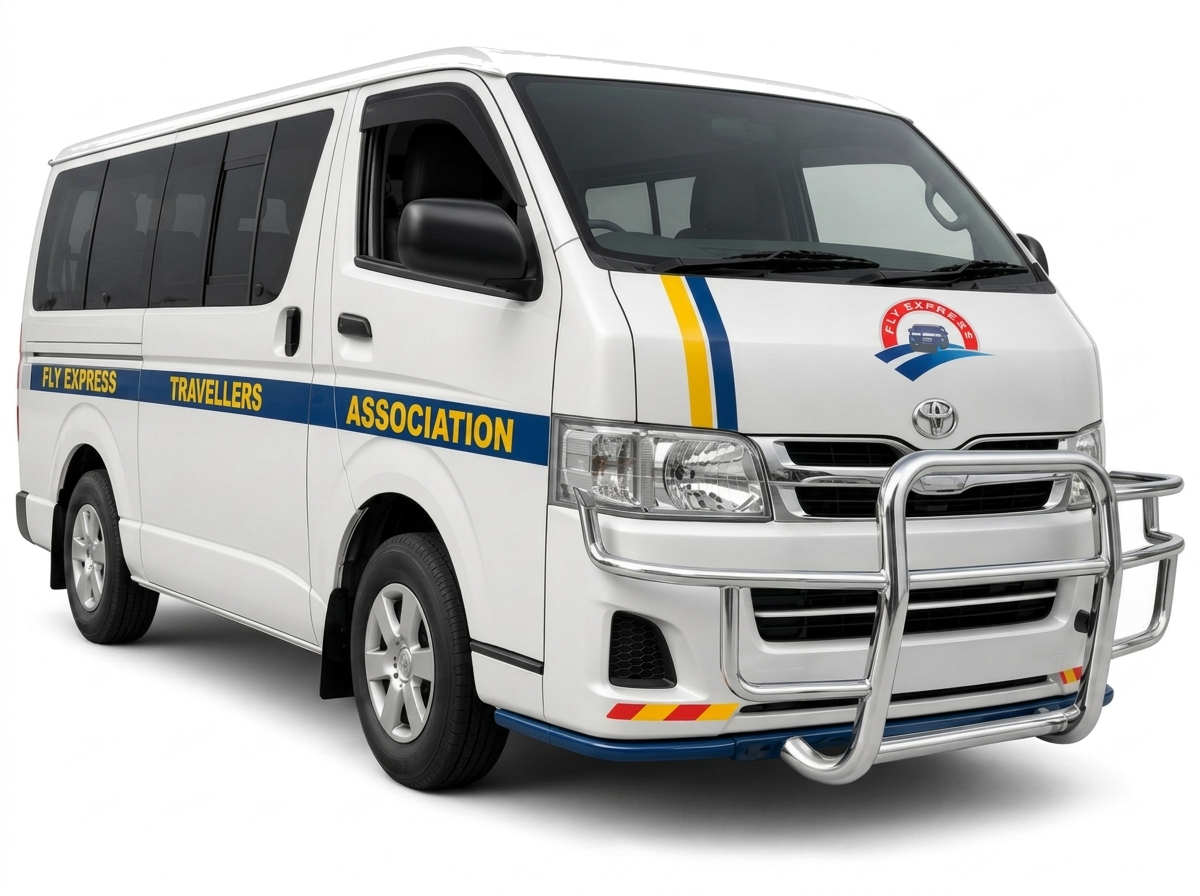
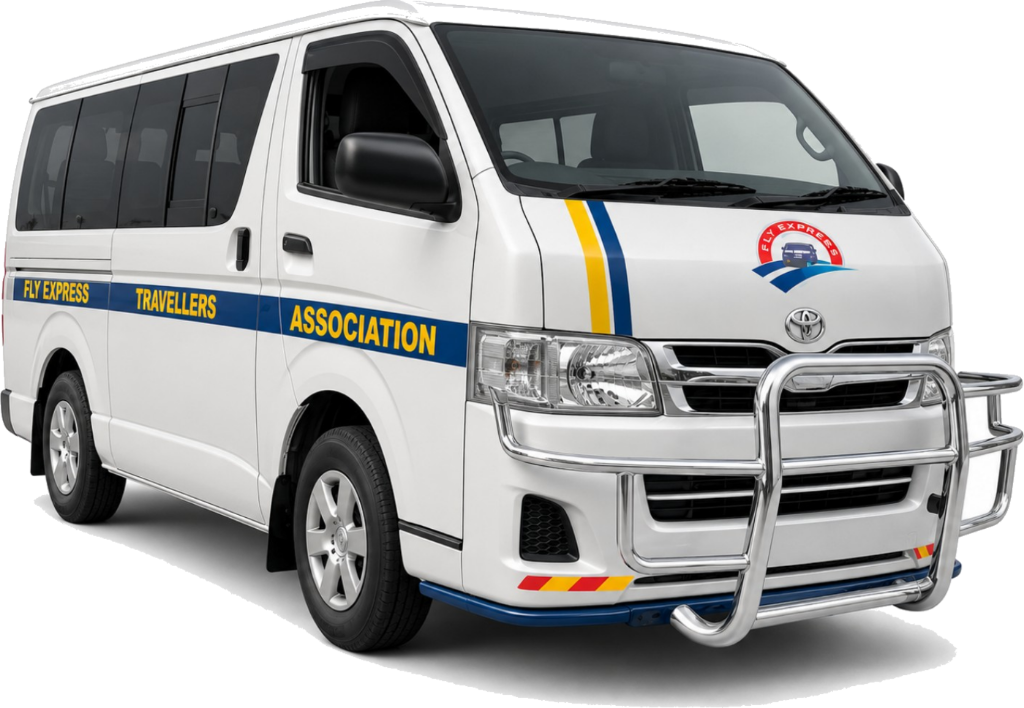
Differentiate booking images between Drone standard roof and Highroof van models dynamically using getTripVehicleImage

diff --git a/script.js b/script.js
@@ -1048,7 +1048,7 @@ function renderBook() {
                     <span class="taxi-van-type-label">${trip.vehicle} (${capacity} seats)</span>
                     <div class="taxi-van-img-wrapper">
                       <div class="taxi-van-img-box">
-                        <img src="${state.transparentVehicles['assets/fly-express-van.png'] || 'assets/fly-express-van.png'}" alt="Fly Express Van" class="${!hasEnoughSeats ? 'is-grayscale' : ''}">
+                        <img src="${getTripVehicleImage(trip.vehicle)}" alt="Fly Express Van" class="${!hasEnoughSeats ? 'is-grayscale' : ''}">
                       </div>
                       <!-- Ugandan Plate -->
                       <div class="ug-plate-badge">
@@ -1347,7 +1347,7 @@ function renderTripResult(trip) {
         <span class="taxi-van-type-label">${trip.vehicle} (${capacity} seats)</span>
         <div class="taxi-van-img-wrapper">
           <div class="taxi-van-img-box">
-            <img src="${state.transparentVehicles['assets/fly-express-van.png'] || 'assets/fly-express-van.png'}" alt="Fly Express Van" class="${!hasEnoughSeats ? 'is-grayscale' : ''}">
+            <img src="${getTripVehicleImage(trip.vehicle)}" alt="Fly Express Van" class="${!hasEnoughSeats ? 'is-grayscale' : ''}">
           </div>
           <!-- Ugandan Plate -->
           <div class="ug-plate-badge">
@@ -1435,7 +1435,7 @@ function renderTripDetails() {
     <div class="smart-review__map-card">
       <div class="smart-review__map-copy"><p class="eyebrow">${reviewDate}</p><h1 id="review-title">Review your trip</h1><p>You’re almost ready to travel.</p></div>
       <div id="trip-review-map" class="trip-review-map" aria-label="OpenStreetMap preview from ${trip.boarding} to ${trip.destination}"></div>
-      <div id="trip-map-fallback" class="trip-map-fallback" hidden><img src="${state.transparentVehicles['assets/fly-express-van.png'] || 'assets/fly-express-van.png'}" alt=""><strong>Map preview unavailable</strong><span>Your selected route is still ready.</span></div>
+      <div id="trip-map-fallback" class="trip-map-fallback" hidden><img src="${getTripVehicleImage(trip.vehicle)}" alt=""><strong>Map preview unavailable</strong><span>Your selected route is still ready.</span></div>
     </div>
     <div class="smart-review__sheet">
       <div class="sheet-handle" aria-hidden="true"></div>
@@ -1457,7 +1457,7 @@ function renderTripDetails() {
       <article class="card transit-status-card">
         <div class="transit-info-grid">
           <div class="transit-van-visual">
-            <img src="${state.transparentVehicles['assets/fly-express-van.png'] || 'assets/fly-express-van.png'}" alt="Fly Express Van" class="transit-van-img">
+            <img src="${getTripVehicleImage(trip.vehicle)}" alt="Fly Express Van" class="transit-van-img">
             <span class="van-plate-tag">${trip.plate}</span>
           </div>
           <div class="transit-details">
@@ -1788,7 +1788,7 @@ function renderLiveTrip() {
       </div>
       <aside class="grid">
         <article class="card card--blue"><p class="section-kicker">Estimated arrival</p><div class="wallet-balance">${trip.arrive}</div><p class="muted">${trip.traffic} traffic · ${trip.duration} scheduled journey</p><span class="status-chip" style="background:rgba(255,255,255,.13);color:white">Vehicle moving</span></article>
-        <article class="card"><div class="card-head"><h3>Trip and crew</h3><span class="status-chip status-chip--success">Verified</span></div><div class="vehicle-identity-media"><div class="taxi-van-img-box" style="width:116px;height:76px;border:none !important;"><img src="${state.transparentVehicles['assets/fly-express-van.png'] || 'assets/fly-express-van.png'}" alt="Fly Express passenger van" style="padding:4px;"></div><div><strong>${trip.vehicle}</strong><span>Fly Express passenger vehicle</span></div></div><div class="people-row" role="button" tabindex="0" onclick="showDriverProfileModal('daniel');" style="cursor: pointer;"><span class="person-icon"><i data-lucide="contact-round"></i></span><div><strong>Daniel</strong><div class="muted text-small">Driver · Verified for ${trip.plate}</div></div></div><div class="people-row"><span class="person-icon"><i data-lucide="user-round-check"></i></span><div><strong>Moses</strong><div class="muted text-small">Conductor · ${passengerTotal()} booked passenger${passengerTotal() === 1 ? '' : 's'}</div></div></div><div class="detail-row"><span>Vehicle registration</span><strong>${trip.plate}</strong></div><div class="detail-row"><span>Boarding stage</span><strong>${trip.boarding}</strong></div><div class="detail-row"><span>Destination</span><strong>${trip.destination}</strong></div></article>
+        <article class="card"><div class="card-head"><h3>Trip and crew</h3><span class="status-chip status-chip--success">Verified</span></div><div class="vehicle-identity-media"><div class="taxi-van-img-box" style="width:116px;height:76px;border:none !important;"><img src="${getTripVehicleImage(trip.vehicle)}" alt="Fly Express passenger van" style="padding:4px;"></div><div><strong>${trip.vehicle}</strong><span>Fly Express passenger vehicle</span></div></div><div class="people-row" role="button" tabindex="0" onclick="showDriverProfileModal('daniel');" style="cursor: pointer;"><span class="person-icon"><i data-lucide="contact-round"></i></span><div><strong>Daniel</strong><div class="muted text-small">Driver · Verified for ${trip.plate}</div></div></div><div class="people-row"><span class="person-icon"><i data-lucide="user-round-check"></i></span><div><strong>Moses</strong><div class="muted text-small">Conductor · ${passengerTotal()} booked passenger${passengerTotal() === 1 ? '' : 's'}</div></div></div><div class="detail-row"><span>Vehicle registration</span><strong>${trip.plate}</strong></div><div class="detail-row"><span>Boarding stage</span><strong>${trip.boarding}</strong></div><div class="detail-row"><span>Destination</span><strong>${trip.destination}</strong></div></article>
         <div class="button-row"><button class="button button--soft-red" type="button" data-action="emergency"><i data-lucide="siren"></i>Emergency Contact</button><button class="button button--ghost" type="button" data-action="share-trip"><i data-lucide="share-2"></i>Share Trip</button></div>
         <div class="notice"><i data-lucide="shield-check"></i><div><strong>Passenger safety</strong><div>Do not share the verification code publicly. Contact support for route concerns.</div></div></div>
       </aside>
@@ -3254,7 +3254,7 @@ function renderTripDetails() {
     <div class="smart-review__map-card">
       <div class="smart-review__map-copy"><p class="eyebrow">${reviewDate}</p><h1 id="review-title">Review your trip</h1><p>You’re almost ready to travel.</p></div>
       <div id="trip-review-map" class="trip-review-map" aria-label="OpenStreetMap preview from ${trip.boarding} to ${trip.destination}"></div>
-      <div id="trip-map-fallback" class="trip-map-fallback" hidden><img src="${state.transparentVehicles['assets/fly-express-van.png'] || 'assets/fly-express-van.png'}" alt=""><strong>Map preview unavailable</strong><span>Your selected route is still ready.</span></div>
+      <div id="trip-map-fallback" class="trip-map-fallback" hidden><img src="${getTripVehicleImage(trip.vehicle)}" alt=""><strong>Map preview unavailable</strong><span>Your selected route is still ready.</span></div>
     </div>
     <div class="smart-review__sheet">
       <div class="sheet-handle" aria-hidden="true"></div>
@@ -4592,6 +4592,12 @@ function makeImageTransparent(imgUrl, callback) {
     }
   };
   img.onerror = () => callback(imgUrl);
+}
+
+function getTripVehicleImage(vehicleName) {
+  const isHighroof = vehicleName && vehicleName.toLowerCase() === 'highroof';
+  const imgUrl = isHighroof ? 'assets/fly-express-hiace-highroof.jpg' : 'assets/fly-express-hiace-commuter.jpg';
+  return state.transparentVehicles[imgUrl] || imgUrl;
 }
 
 function preloadTransparentImages() {

diff --git a/index.html b/index.html
@@ -9,12 +9,12 @@
   <link rel="preconnect" href="https://unpkg.com">
   <link rel="preconnect" href="https://tile.openstreetmap.org">
   <link rel="stylesheet" href="leaflet.css">
-  <link class="styles" rel="stylesheet" href="styles.css?v=130">
+  <link class="styles" rel="stylesheet" href="styles.css?v=131">
   <script defer src="https://unpkg.com/lucide@0.468.0/dist/umd/lucide.min.js"></script>
   <script defer src="https://unpkg.com/leaflet@1.9.4/dist/leaflet.js" integrity="sha256-20nQCchB9co0qIjJZRGuk2/Z9VM+kNiyxNV1lvTlZBo=" crossorigin=""></script>
   <script defer src="https://cdn.jsdelivr.net/npm/qrcodejs@1.0.0/qrcode.min.js"></script>
   <script defer src="https://cdn.jsdelivr.net/npm/jsbarcode@3.11.6/dist/JsBarcode.all.min.js"></script>
-  <script defer src="script.js?v=130"></script>
+  <script defer src="script.js?v=131"></script>
 </head>
 <body>
   <a class="skip-link" href="#main-content">Skip to main content</a>
